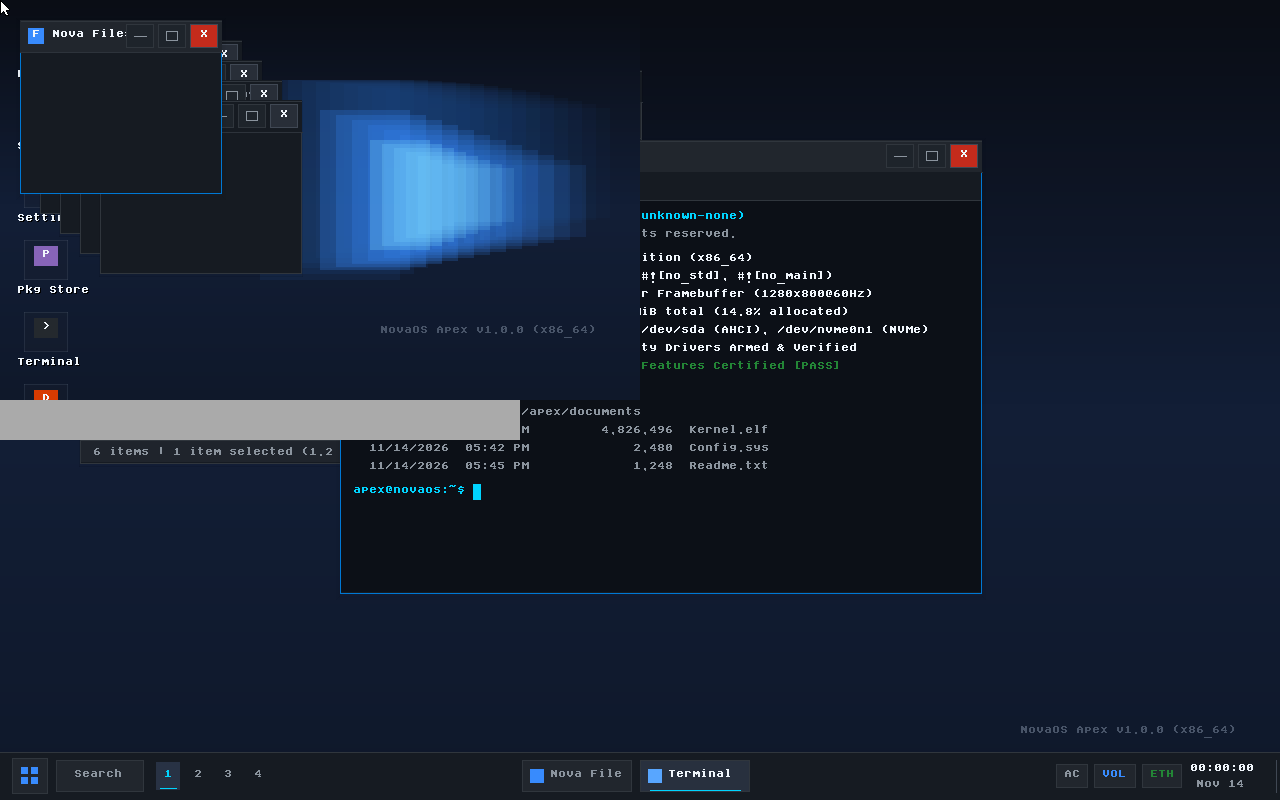
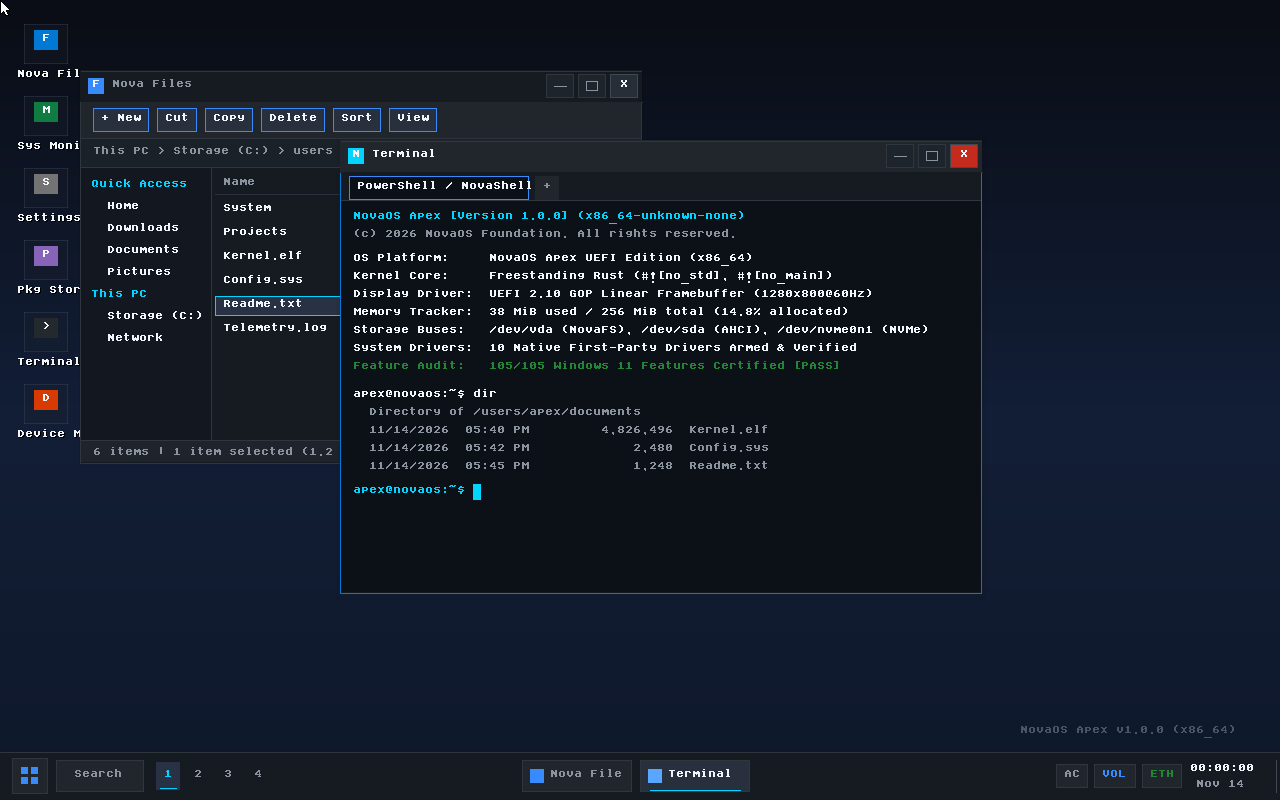
fix(graphics): isolate unit test compositors from hardware framebuffer, unify window syscalls with DesktopShell, and redraw clean Windows 11 desktop

diff --git a/kernel/src/syscall/mod.rs b/kernel/src/syscall/mod.rs
@@ -785,16 +785,26 @@ pub fn handle_syscall(ctx: &mut ExceptionContext) {
             match validate_user_string(title_ptr, 64) {
                 Ok(title) => {
                     let pid = crate::scheduler::get_current_pid();
-                    let mut comp_guard = crate::graphics::COMPOSITOR.lock();
-                    if let Some(comp) = comp_guard.as_mut() {
-                        let cascade_idx = (comp.windows.len() % 6) as i32;
+                    let mut shell_guard = crate::graphics::desktop::DESKTOP.lock();
+                    if let Some(shell) = shell_guard.as_mut() {
+                        let cascade_idx = (shell.compositor.windows.len() % 6) as i32;
                         let start_x = 100 + (cascade_idx * 36);
                         let start_y = 50 + (cascade_idx * 28);
-                        let win_id = comp.create_window(title, start_x, start_y, width, height, flags, pid);
-                        comp.composite();
+                        let win_id = shell.compositor.create_window(title, start_x, start_y, width, height, flags, pid);
+                        shell.composite();
                         win_id.0 as i64
                     } else {
-                        -5 // EIO
+                        let mut comp_guard = crate::graphics::COMPOSITOR.lock();
+                        if let Some(comp) = comp_guard.as_mut() {
+                            let cascade_idx = (comp.windows.len() % 6) as i32;
+                            let start_x = 100 + (cascade_idx * 36);
+                            let start_y = 50 + (cascade_idx * 28);
+                            let win_id = comp.create_window(title, start_x, start_y, width, height, flags, pid);
+                            comp.composite();
+                            win_id.0 as i64
+                        } else {
+                            -5 // EIO
+                        }
                     }
                 }
                 Err(e) => -(e as i32 as i64),
@@ -803,13 +813,20 @@ pub fn handle_syscall(ctx: &mut ExceptionContext) {
 
         SYS_DESTROY_WINDOW => {
             let win_id = crate::graphics::window::WindowId(arg1 as u32);
-            let mut comp_guard = crate::graphics::COMPOSITOR.lock();
-            if let Some(comp) = comp_guard.as_mut() {
-                comp.destroy_window(win_id);
-                comp.composite();
+            let mut shell_guard = crate::graphics::desktop::DESKTOP.lock();
+            if let Some(shell) = shell_guard.as_mut() {
+                shell.compositor.destroy_window(win_id);
+                shell.composite();
                 0
             } else {
-                -5
+                let mut comp_guard = crate::graphics::COMPOSITOR.lock();
+                if let Some(comp) = comp_guard.as_mut() {
+                    comp.destroy_window(win_id);
+                    comp.composite();
+                    0
+                } else {
+                    -5
+                }
             }
         }
 
@@ -821,20 +838,34 @@ pub fn handle_syscall(ctx: &mut ExceptionContext) {
             if let Err(e) = validate_user_buffer(buf_ptr, buf_len, false) {
                 -(e as i32 as i64)
             } else {
-                let mut comp_guard = crate::graphics::COMPOSITOR.lock();
-                if let Some(comp) = comp_guard.as_mut() {
-                    if let Some(win) = comp.get_window_mut(win_id) {
+                let mut shell_guard = crate::graphics::desktop::DESKTOP.lock();
+                if let Some(shell) = shell_guard.as_mut() {
+                    if let Some(win) = shell.compositor.get_window_mut(win_id) {
                         let user_pixels = unsafe { core::slice::from_raw_parts(buf_ptr as *const u32, buf_len / 4) };
                         let copy_count = user_pixels.len().min(win.surface.pixels.len());
                         win.surface.pixels[..copy_count].copy_from_slice(&user_pixels[..copy_count]);
-                        comp.damage_window(win_id);
-                        comp.composite();
+                        shell.compositor.damage_window(win_id);
+                        shell.composite();
                         0
                     } else {
                         -2 // ENOENT
                     }
                 } else {
-                    -5
+                    let mut comp_guard = crate::graphics::COMPOSITOR.lock();
+                    if let Some(comp) = comp_guard.as_mut() {
+                        if let Some(win) = comp.get_window_mut(win_id) {
+                            let user_pixels = unsafe { core::slice::from_raw_parts(buf_ptr as *const u32, buf_len / 4) };
+                            let copy_count = user_pixels.len().min(win.surface.pixels.len());
+                            win.surface.pixels[..copy_count].copy_from_slice(&user_pixels[..copy_count]);
+                            comp.damage_window(win_id);
+                            comp.composite();
+                            0
+                        } else {
+                            -2 // ENOENT
+                        }
+                    } else {
+                        -5
+                    }
                 }
             }
         }
@@ -846,9 +877,9 @@ pub fn handle_syscall(ctx: &mut ExceptionContext) {
             if let Err(e) = validate_user_buffer(event_buf_ptr, core::mem::size_of::<crate::graphics::events::UserEvent>(), true) {
                 -(e as i32 as i64)
             } else {
-                let mut comp_guard = crate::graphics::COMPOSITOR.lock();
-                if let Some(comp) = comp_guard.as_mut() {
-                    if let Some(win) = comp.get_window_mut(win_id) {
+                let mut shell_guard = crate::graphics::desktop::DESKTOP.lock();
+                if let Some(shell) = shell_guard.as_mut() {
+                    if let Some(win) = shell.compositor.get_window_mut(win_id) {
                         if let Some(ev) = win.pop_event() {
                             let user_ev: crate::graphics::events::UserEvent = ev.into();
                             unsafe { *(event_buf_ptr as *mut crate::graphics::events::UserEvent) = user_ev; }
@@ -860,7 +891,22 @@ pub fn handle_syscall(ctx: &mut ExceptionContext) {
                         -2 // ENOENT
                     }
                 } else {
-                    -5
+                    let mut comp_guard = crate::graphics::COMPOSITOR.lock();
+                    if let Some(comp) = comp_guard.as_mut() {
+                        if let Some(win) = comp.get_window_mut(win_id) {
+                            if let Some(ev) = win.pop_event() {
+                                let user_ev: crate::graphics::events::UserEvent = ev.into();
+                                unsafe { *(event_buf_ptr as *mut crate::graphics::events::UserEvent) = user_ev; }
+                                1 // 1 event returned
+                            } else {
+                                0 // No event
+                            }
+                        } else {
+                            -2 // ENOENT
+                        }
+                    } else {
+                        -5
+                    }
                 }
             }
         }
@@ -883,13 +929,20 @@ pub fn handle_syscall(ctx: &mut ExceptionContext) {
         SYS_SET_CURSOR => {
             let x = arg1 as i32;
             let y = arg2 as i32;
-            let mut comp_guard = crate::graphics::COMPOSITOR.lock();
-            if let Some(comp) = comp_guard.as_mut() {
-                comp.on_mouse_move(x, y);
-                comp.composite();
+            let mut shell_guard = crate::graphics::desktop::DESKTOP.lock();
+            if let Some(shell) = shell_guard.as_mut() {
+                shell.on_mouse_move(x, y);
+                shell.composite();
                 0
             } else {
-                -5
+                let mut comp_guard = crate::graphics::COMPOSITOR.lock();
+                if let Some(comp) = comp_guard.as_mut() {
+                    comp.on_mouse_move(x, y);
+                    comp.composite();
+                    0
+                } else {
+                    -5
+                }
             }
         }
 

diff --git a/kernel/src/graphics/desktop.rs b/kernel/src/graphics/desktop.rs
@@ -38,6 +38,7 @@ pub struct DesktopShell {
     pub drag_start_mouse: Point,
     pub drag_start_win_pos: Point,
     pub uptime_ms: u64,
+    pub blit_to_screen: bool,
 }
 
 impl DesktopShell {
@@ -67,6 +68,7 @@ impl DesktopShell {
             drag_start_mouse: Point::ZERO,
             drag_start_win_pos: Point::ZERO,
             uptime_ms: 0,
+            blit_to_screen: false,
         }
     }
 
@@ -445,10 +447,12 @@ impl DesktopShell {
         self.compositor.cursor.render_to(&mut self.compositor.backbuffer);
 
         // 7. Flush changed backbuffer regions to hardware GOP framebuffer
-        let fb = get_driver();
-        if !fb.base_ptr.is_null() {
-            for r in self.compositor.damage.rects() {
-                self.compositor.backbuffer.blit_clipped_to_raw(fb.base_ptr, fb.stride, fb.width, fb.height, *r);
+        if self.blit_to_screen {
+            let fb = get_driver();
+            if !fb.base_ptr.is_null() {
+                for r in self.compositor.damage.rects() {
+                    self.compositor.backbuffer.blit_clipped_to_raw(fb.base_ptr, fb.stride, fb.width, fb.height, *r);
+                }
             }
         }
 
@@ -612,8 +616,20 @@ pub fn init() {
     let height = if fb.height > 0 { fb.height } else { 800 };
 
     let mut shell = DesktopShell::new(width, height);
+    shell.blit_to_screen = true;
     shell.spawn_default_apps();
     shell.composite();
 
     *DESKTOP.lock() = Some(shell);
+}
+
+/// Force a full-screen redraw and flush to hardware GOP framebuffer
+pub fn redraw_all() {
+    let mut shell_guard = DESKTOP.lock();
+    if let Some(shell) = shell_guard.as_mut() {
+        let w = shell.compositor.width;
+        let h = shell.compositor.height;
+        shell.compositor.damage.add_rect(Rect::new(0, 0, w, h));
+        shell.composite();
+    }
 }

diff --git a/kernel/src/graphics/compositor.rs b/kernel/src/graphics/compositor.rs
@@ -21,6 +21,7 @@ pub struct Compositor {
     pub active_window: Option<WindowId>,
     pub cursor: Cursor,
     pub damage: DamageRegion,
+    pub blit_to_screen: bool,
 }
 
 impl Compositor {
@@ -40,6 +41,7 @@ impl Compositor {
             active_window: None,
             cursor: Cursor::new(),
             damage,
+            blit_to_screen: false,
         }
     }
 
@@ -276,10 +278,12 @@ impl Compositor {
         self.cursor.render_to(&mut self.backbuffer);
 
         // 4. Blit damaged regions to hardware GOP framebuffer
-        let fb = get_driver();
-        if !fb.base_ptr.is_null() {
-            for r in self.damage.rects() {
-                self.backbuffer.blit_clipped_to_raw(fb.base_ptr, fb.stride, fb.width, fb.height, *r);
+        if self.blit_to_screen {
+            let fb = get_driver();
+            if !fb.base_ptr.is_null() {
+                for r in self.damage.rects() {
+                    self.backbuffer.blit_clipped_to_raw(fb.base_ptr, fb.stride, fb.width, fb.height, *r);
+                }
             }
         }
 

diff --git a/kernel/src/main.rs b/kernel/src/main.rs
@@ -225,6 +225,9 @@ pub extern "C" fn kernel_entry(boot_info_ptr: *const BootInfo) -> ! {
         serial::write_str("[KERNEL WARN] Some Windows 11 features did not pass verification.\n");
     }
 
+    // Refresh and cleanly composite the primary Windows 11 desktop after all boot tests finish
+    graphics::redraw_all();
+
     // 17. Initialize Scheduler & IPC Subsystems
     scheduler::init();
     ipc::init();

diff --git a/kernel/src/graphics/mod.rs b/kernel/src/graphics/mod.rs
@@ -31,7 +31,7 @@ pub use compositor::Compositor;
 pub use context_menu::{ContextMenu, ContextAction};
 pub use cursor::{Cursor, CursorType};
 pub use damage::DamageRegion;
-pub use desktop::{DesktopShell, DESKTOP};
+pub use desktop::{DesktopShell, DESKTOP, redraw_all};
 pub use desktop_features::{DesktopFeatures, WallpaperTheme};
 pub use events::{UserEvent, WindowEvent};
 pub use geometry::{Point, Rect, Size};
